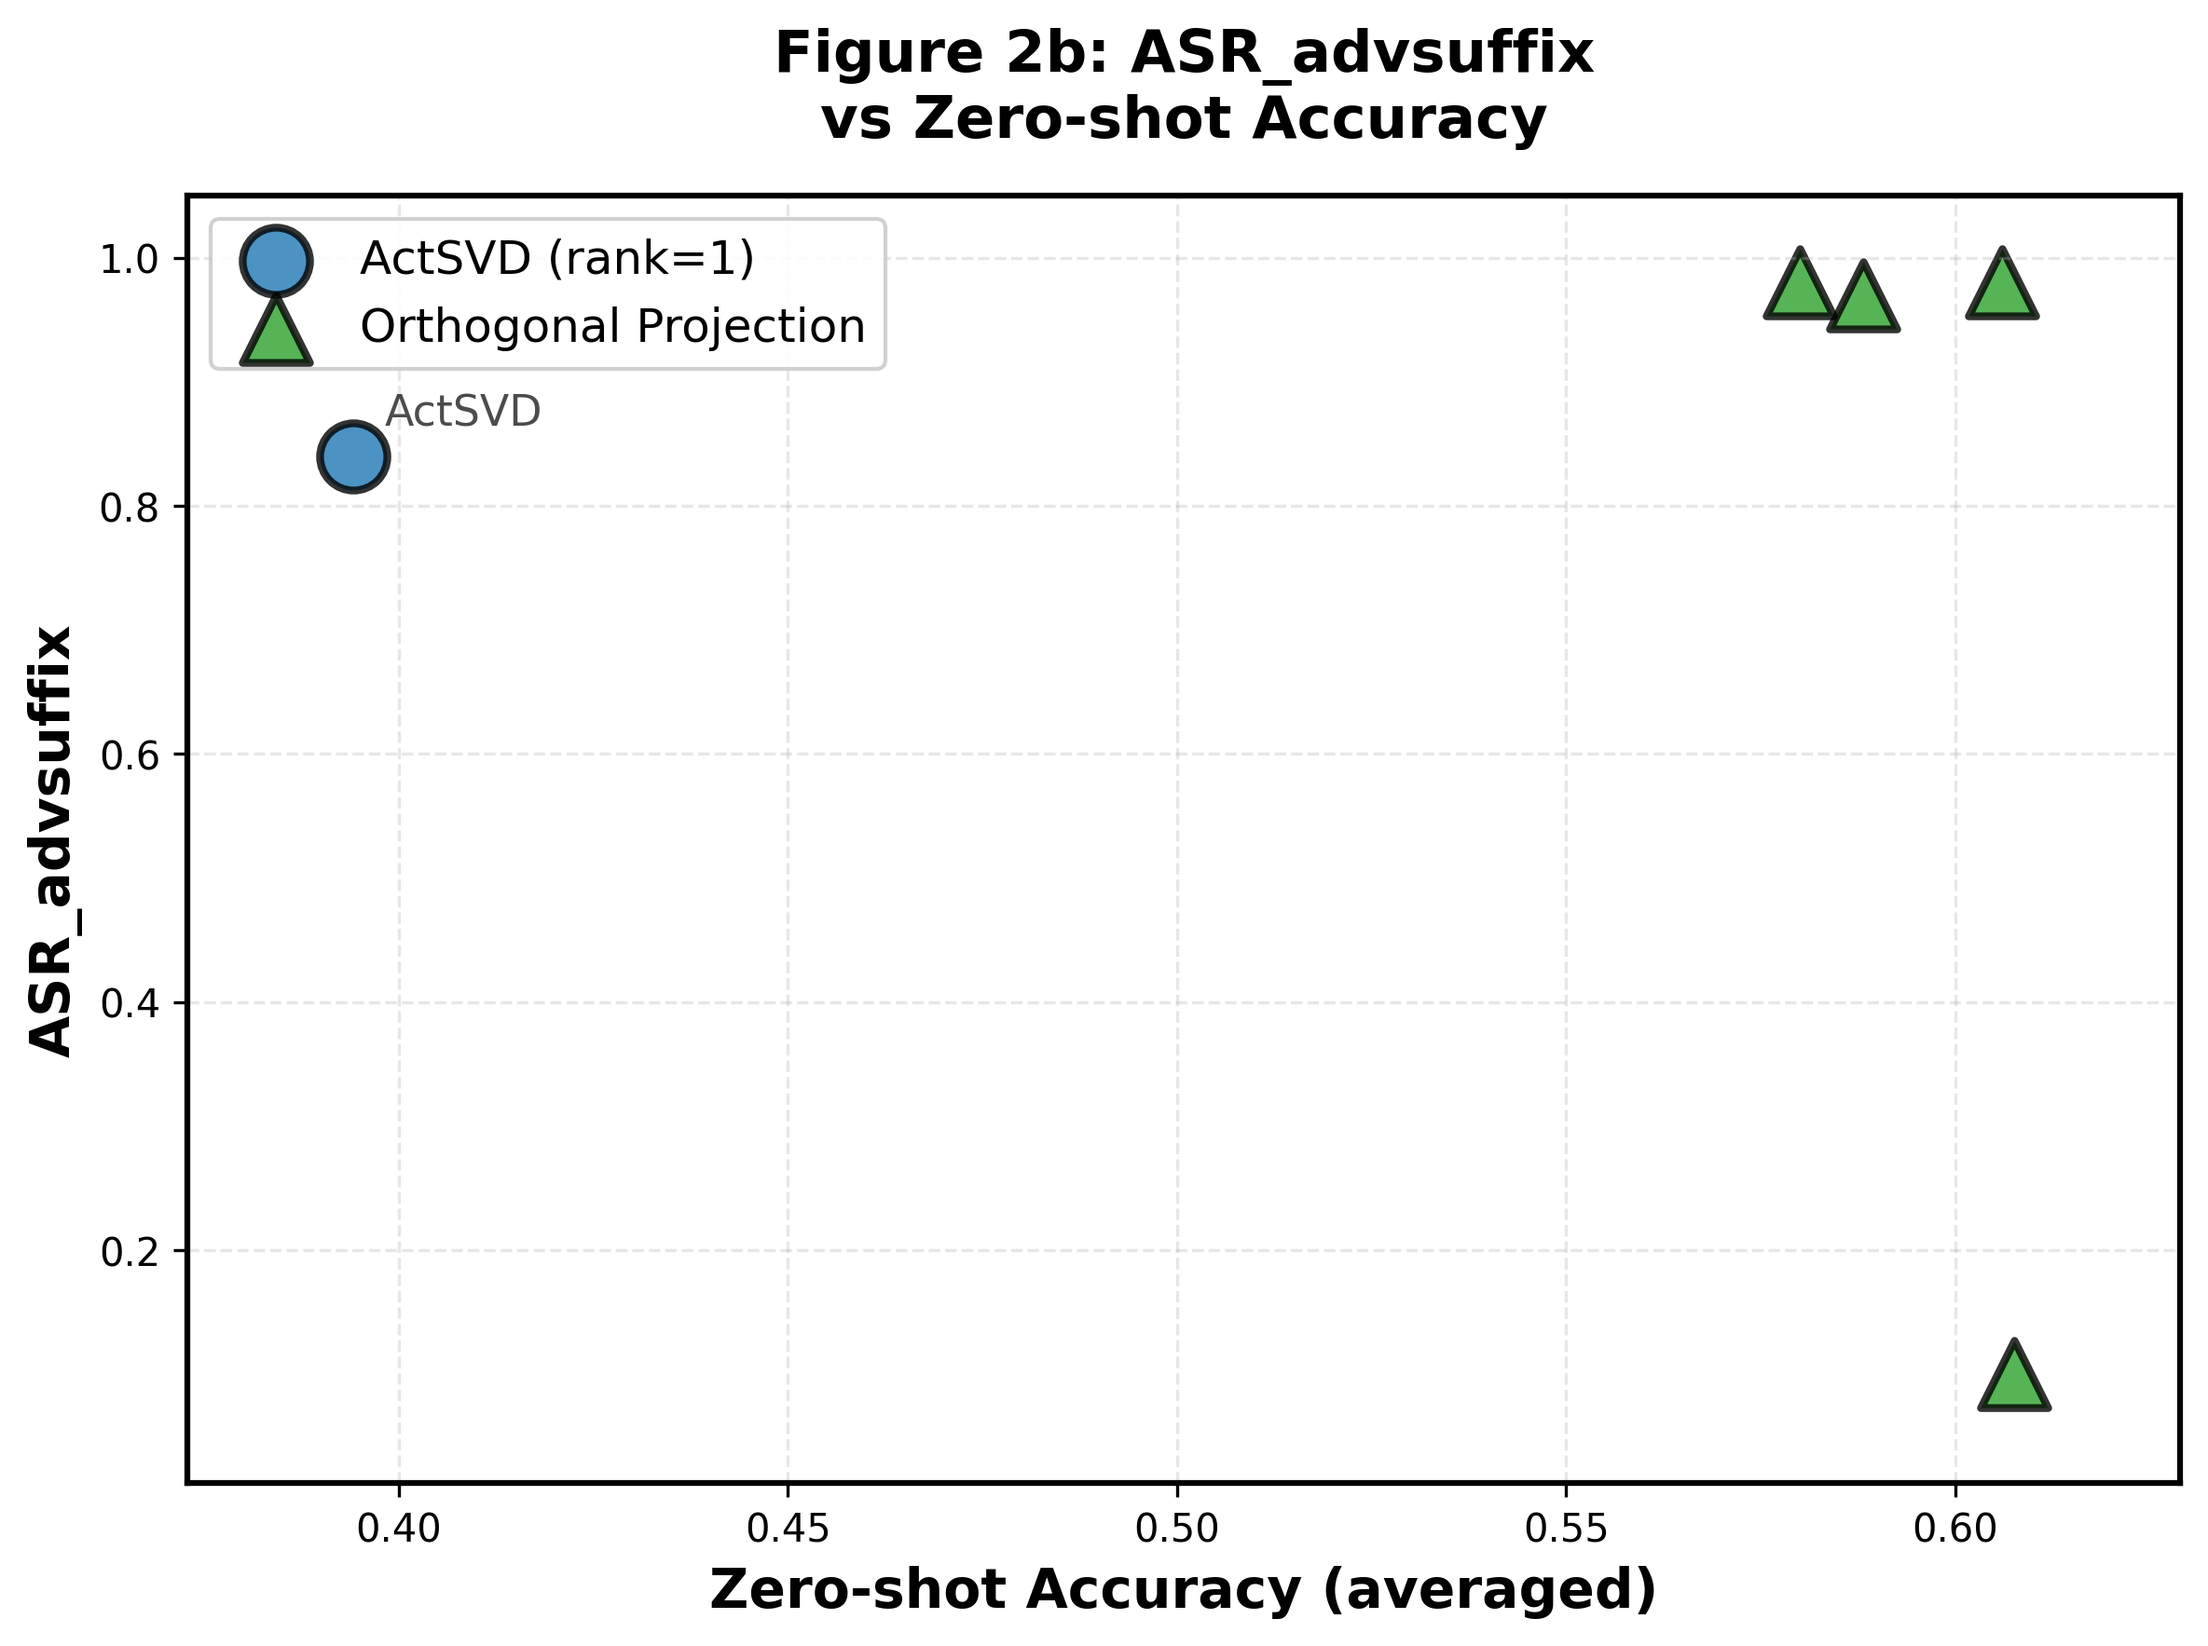
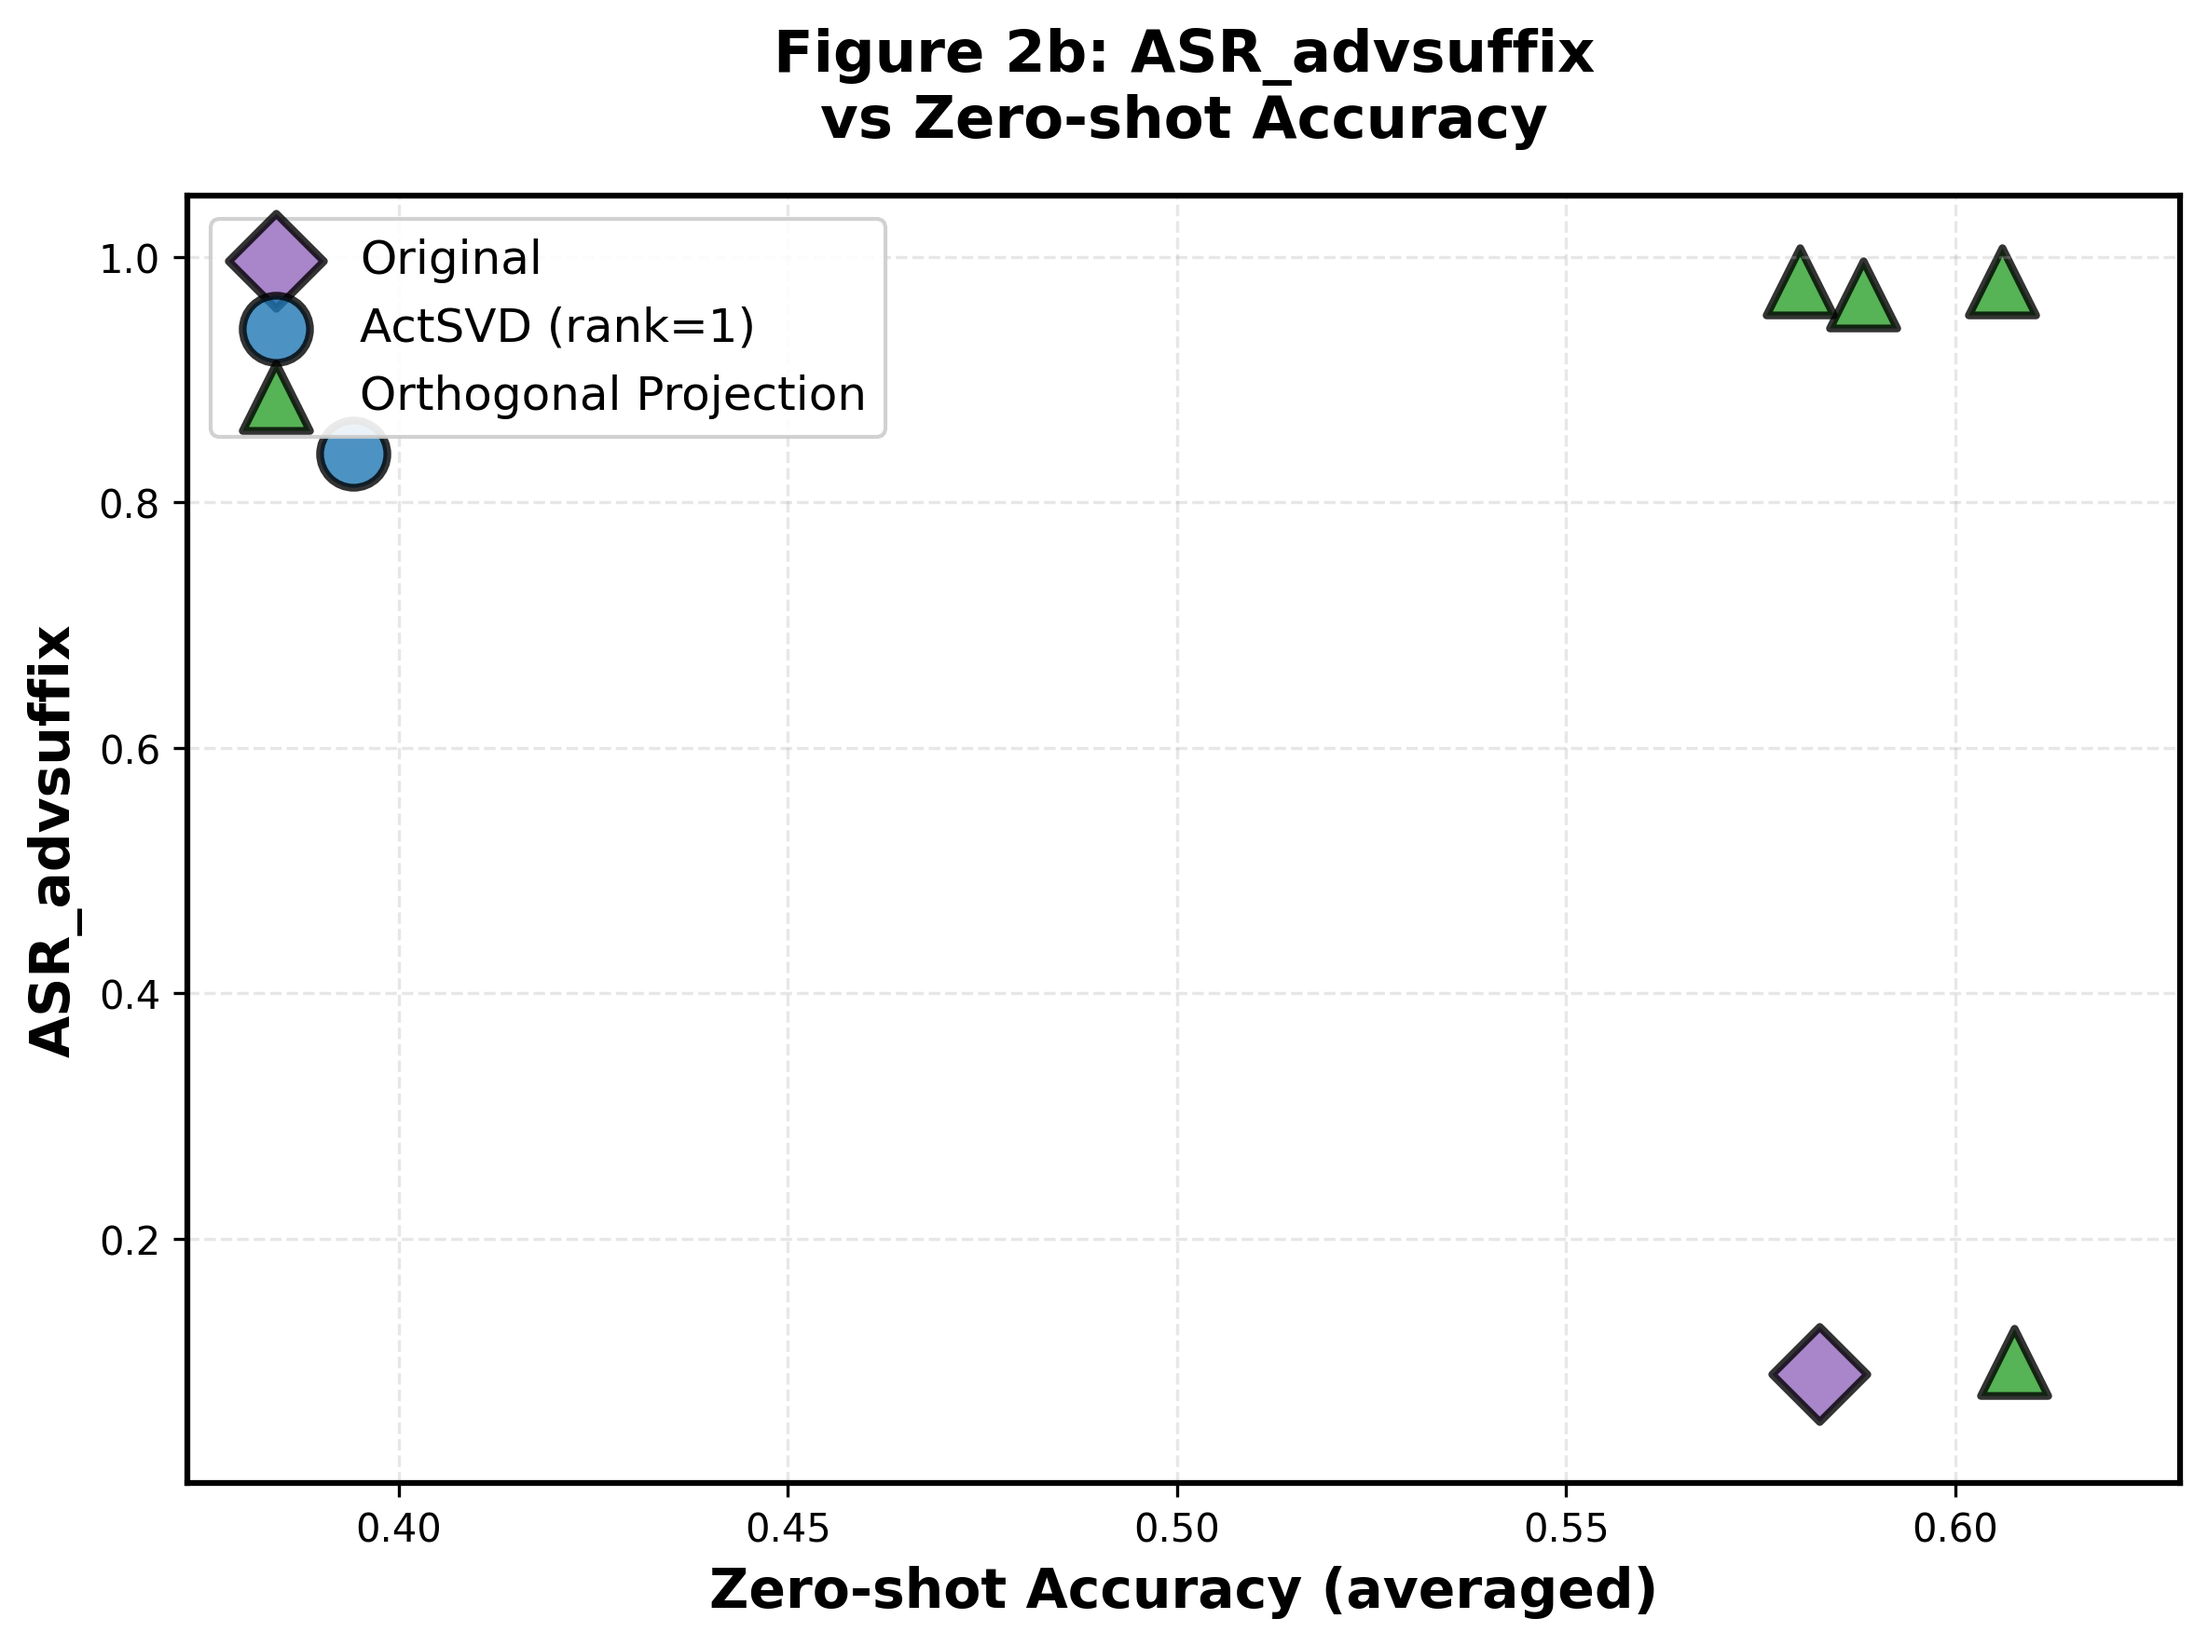
updating plots

diff --git a/create_plots_fig2b.py b/create_plots_fig2b.py
@@ -45,6 +45,26 @@ def parse_log_file(log_path, rank_label):
 
     return metrics
 
+def read_original_data():
+    """Read Original model data from fig2a"""
+    log_file = 'results/fig2a/original/log_original.txt'
+
+    if not os.path.exists(log_file):
+        print(f"Warning: {log_file} not found")
+        return None
+
+    data = {}
+    with open(log_file, 'r') as f:
+        lines = f.readlines()
+        for line in lines[1:]:  # Skip header
+            parts = line.strip().split('\t')
+            if len(parts) >= 4:
+                metric_name = parts[2]
+                score = float(parts[3])
+                data[metric_name] = score
+
+    return data
+
 def read_actsvd_data():
     """Read ActSVD top rank removal data"""
     log_file = 'results/fig2b/actSVD_top/log_low_rank.txt'
@@ -110,6 +130,7 @@ def read_orth_proj_data():
     return orth_proj_data
 
 # Read all data
+original_data = read_original_data()
 actsvd_data = read_actsvd_data()
 orth_proj_data = read_orth_proj_data()
 
@@ -117,6 +138,13 @@ orth_proj_data = read_orth_proj_data()
 print("\n" + "="*100)
 print("DATA SUMMARY - Figure 2b")
 print("="*100)
+
+if original_data:
+    print("\nOriginal Model:")
+    print(f"  Zero-shot: {original_data.get('averaged', 'N/A'):.4f}")
+    print(f"  inst_ASR_basic (ASR_vanilla): {original_data.get('inst_ASR_basic', 'N/A'):.4f}")
+    print(f"  ASR_gcg (ASR_advsuffix): {original_data.get('ASR_gcg', 'N/A'):.4f}")
+    print(f"  no_inst_ASR_multiple_nosys (ASR_advdecoding): {original_data.get('no_inst_ASR_multiple_nosys', 'N/A'):.4f}")
 
 if actsvd_data:
     print("\nActSVD (rank=1 removal):")
@@ -136,13 +164,15 @@ for data_point in orth_proj_data:
           f"{data_point.get('no_inst_ASR_multiple_nosys', 0):.4f}")
 print("="*100)
 
-# Colors and markers
+# Colors and markers (matching fig2a for Original)
 colors = {
+    'Original': '#9467bd',  # purple (same as fig2a)
     'ActSVD': '#1f77b4',  # blue
     'Orth_Proj': '#2ca02c',  # green
 }
 
 markers = {
+    'Original': 'D',  # diamond (same as fig2a)
     'ActSVD': 'o',
     'Orth_Proj': '^',
 }
@@ -158,6 +188,23 @@ asr_metrics = [
 
 for idx, (metric_key, metric_label) in enumerate(asr_metrics):
     ax = axes[idx]
+
+    # Plot Original if available
+    if original_data:
+        metric_value = get_metric_value(original_data, metric_key)
+        if metric_value is not None:
+            x = original_data.get('averaged', 0)
+            y = metric_value
+
+            ax.scatter(x, y,
+                      color=colors['Original'],
+                      marker=markers['Original'],
+                      s=250,
+                      label='Original',
+                      edgecolors='black',
+                      linewidth=1.5,
+                      alpha=0.8,
+                      zorder=5)
 
     # Plot ActSVD if available
     if actsvd_data:
@@ -175,13 +222,6 @@ for idx, (metric_key, metric_label) in enumerate(asr_metrics):
                       linewidth=1.5,
                       alpha=0.8,
                       zorder=5)
-
-            ax.annotate('ActSVD',
-                       (x, y),
-                       xytext=(5, 5),
-                       textcoords='offset points',
-                       fontsize=9,
-                       alpha=0.7)
 
     # Plot all orthogonal projection points
     x_vals = []
@@ -224,10 +264,11 @@ for idx, (metric_key, metric_label) in enumerate(asr_metrics):
     ax.legend(loc='best', fontsize=10, framealpha=0.9)
 
     # Set axis limits with some padding
-    if x_vals or actsvd_data:
-        all_x = x_vals + ([actsvd_data.get('averaged', 0)] if actsvd_data else [])
-        metric_value = get_metric_value(actsvd_data, metric_key) if actsvd_data else None
-        all_y = y_vals + ([metric_value] if metric_value is not None else [])
+    if x_vals or actsvd_data or original_data:
+        all_x = x_vals + ([actsvd_data.get('averaged', 0)] if actsvd_data else []) + ([original_data.get('averaged', 0)] if original_data else [])
+        actsvd_metric_value = get_metric_value(actsvd_data, metric_key) if actsvd_data else None
+        original_metric_value = get_metric_value(original_data, metric_key) if original_data else None
+        all_y = y_vals + ([actsvd_metric_value] if actsvd_metric_value is not None else []) + ([original_metric_value] if original_metric_value is not None else [])
 
         if all_x and all_y:
             x_min, x_max = min(all_x), max(all_x)
@@ -254,6 +295,23 @@ print(f"\nSaved: {output_file}")
 for idx, (metric_key, metric_label) in enumerate(asr_metrics):
     fig, ax = plt.subplots(figsize=(8, 6))
 
+    # Plot Original if available
+    if original_data:
+        metric_value = get_metric_value(original_data, metric_key)
+        if metric_value is not None:
+            x = original_data.get('averaged', 0)
+            y = metric_value
+
+            ax.scatter(x, y,
+                      color=colors['Original'],
+                      marker=markers['Original'],
+                      s=300,
+                      label='Original',
+                      edgecolors='black',
+                      linewidth=2,
+                      alpha=0.8,
+                      zorder=5)
+
     # Plot ActSVD if available
     if actsvd_data:
         metric_value = get_metric_value(actsvd_data, metric_key)
@@ -270,13 +328,6 @@ for idx, (metric_key, metric_label) in enumerate(asr_metrics):
                       linewidth=2,
                       alpha=0.8,
                       zorder=5)
-
-            ax.annotate('ActSVD',
-                       (x, y),
-                       xytext=(8, 8),
-                       textcoords='offset points',
-                       fontsize=11,
-                       alpha=0.7)
 
     # Plot all orthogonal projection points
     x_vals = []
@@ -317,10 +368,11 @@ for idx, (metric_key, metric_label) in enumerate(asr_metrics):
     ax.legend(loc='best', fontsize=12, framealpha=0.9)
 
     # Set axis limits with some padding
-    if x_vals or actsvd_data:
-        all_x = x_vals + ([actsvd_data.get('averaged', 0)] if actsvd_data else [])
-        metric_value = get_metric_value(actsvd_data, metric_key) if actsvd_data else None
-        all_y = y_vals + ([metric_value] if metric_value is not None else [])
+    if x_vals or actsvd_data or original_data:
+        all_x = x_vals + ([actsvd_data.get('averaged', 0)] if actsvd_data else []) + ([original_data.get('averaged', 0)] if original_data else [])
+        actsvd_metric_value = get_metric_value(actsvd_data, metric_key) if actsvd_data else None
+        original_metric_value = get_metric_value(original_data, metric_key) if original_data else None
+        all_y = y_vals + ([actsvd_metric_value] if actsvd_metric_value is not None else []) + ([original_metric_value] if original_metric_value is not None else [])
 
         if all_x and all_y:
             x_min, x_max = min(all_x), max(all_x)

diff --git a/create_plots.py b/create_plots.py
@@ -140,14 +140,6 @@ for idx, (metric_key, metric_label) in enumerate(asr_metrics):
                   linewidth=1.5,
                   alpha=0.8)
 
-        # Add text label
-        ax.annotate(method,
-                   (x, y),
-                   xytext=(5, 5),
-                   textcoords='offset points',
-                   fontsize=9,
-                   alpha=0.7)
-
     # Plot all set difference sparsity points (green triangles)
     for point in setdiff_data:
         x = point['zero_shot']
@@ -199,14 +191,6 @@ for idx, (metric_key, metric_label) in enumerate(asr_metrics):
                   edgecolors='black',
                   linewidth=2,
                   alpha=0.8)
-
-        # Add text label
-        ax.annotate(method,
-                   (x, y),
-                   xytext=(8, 8),
-                   textcoords='offset points',
-                   fontsize=11,
-                   alpha=0.7)
 
     # Plot all set difference sparsity points (green triangles)
     for point in setdiff_data:
